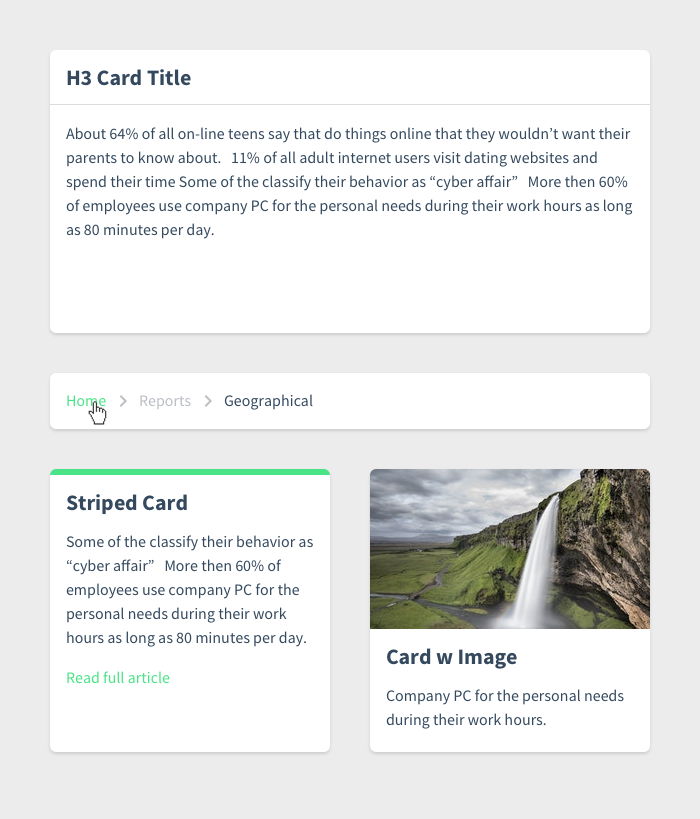
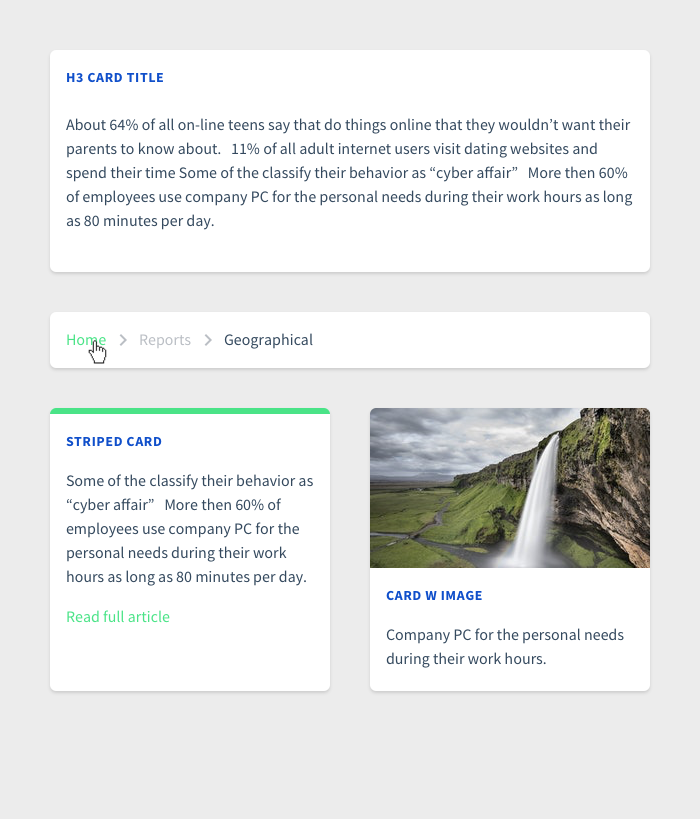
New style applied

diff --git a/index.html b/index.html
@@ -55,6 +55,7 @@
                 <li><a href="#modals">Modals</a></li>
                 <li><a href="#notifications">Notifications</a></li>
                 <li><a href="#cards">Cards</a></li>
+                <li><a href="#visual_style">Visual style</a></li>
                 <li><a href="#layout">Layout</a></li>
             </ul>
         </p>
@@ -269,7 +270,7 @@
             </h3>
             <p>
                 Modal window rounded corners and shadow updated. <br>
-                Heading font weight updated.
+                Heading style totally re-worked.
             </p>
             <img src="./img/modals.png" class="img-fluid mb-5" alt="Modals">
             <p>
@@ -309,14 +310,32 @@
             <hr class="my-5">
         </section>
 
+        <!-- Visual Style -->
+        <section class="mt-4" id="visual_style">
+            <h3>
+                Visual Style
+            </h3>
+            <p>
+                Reworked. Fresh. Catchy.
+            </p>
+            <img src="./img/visual_style.png" class="img-fluid mb-5" alt="Visual style">
+            <p>
+              <small><a href="#top">Return to top</a></small>
+            </p>
+            <hr class="my-5">
+        </section>
+
+
         <!-- Layout -->
         <section class="mt-4" id="layout">
             <h3>
                 Layout
             </h3>
-            <p class="text-danger">
-                [To be completed]
+            <p>
+                Layout was totally re-worked. Right now it's more feature reach, content focused and stylish AF. All widgets will be designed with the focus on all features Vuestic offers.
             </p>
+            <img src="./img/layout_dashboard.png" class="img-fluid mb-5" alt="Dashboard">
+            <img src="./img/layout_inner.png" class="img-fluid mb-5" alt="Inner Page">
             <p>
               <small><a href="#top">Return to top</a></small>
             </p>
